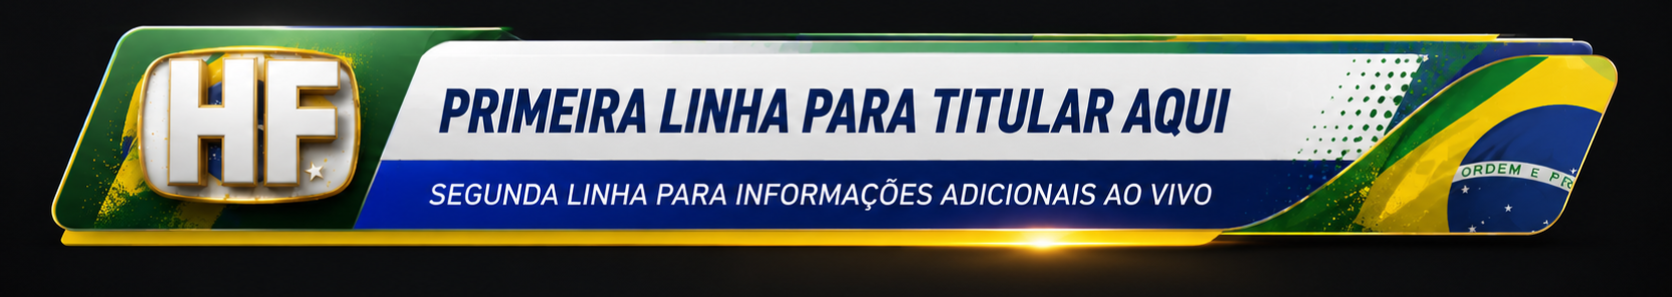
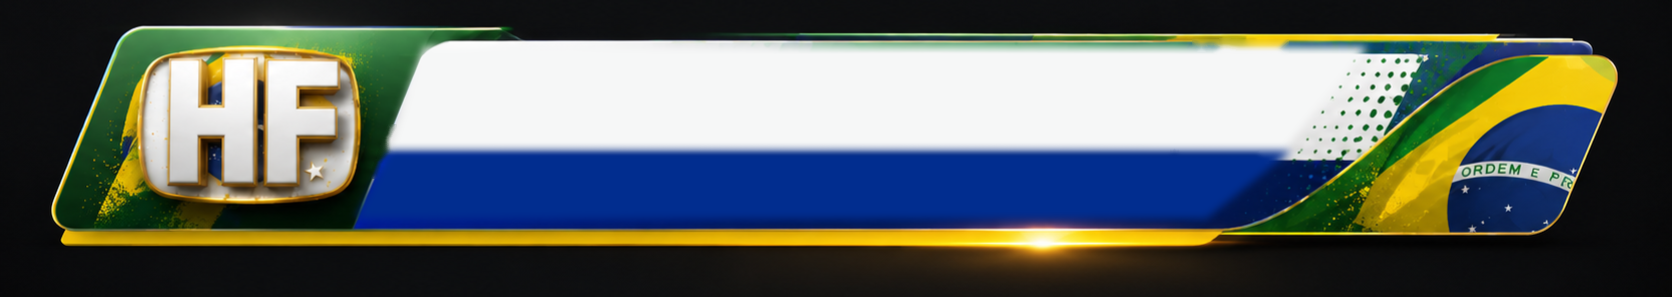
Limpa arte da headline patriota

Changed region(s): [[0.2177, 0.2727, 0.7775, 0.7576], [0.4354, 0.1212, 0.8397, 0.2121], [0.2488, 0.1515, 0.2799, 0.1818]]

diff --git a/src/components/Pages/ForgeEditor.css b/src/components/Pages/ForgeEditor.css
@@ -1124,25 +1124,22 @@
 
 .headline-patriota-main {
   position: absolute;
-  left: 19.2%;
-  right: 11.2%;
-  top: 7.5%;
-  bottom: 12%;
+  left: 24%;
+  right: 19%;
+  top: 16%;
+  height: 32%;
   z-index: 2;
   display: flex;
   align-items: center;
   justify-content: center;
   text-align: center;
   overflow: hidden;
-  background: linear-gradient(90deg, rgba(253, 253, 253, 0.98), rgba(244, 246, 252, 0.96));
-  border-radius: 28px;
-  padding: 0 34px;
-  box-shadow:
-    inset 0 1px 0 rgba(255, 255, 255, 0.8),
-    0 8px 20px rgba(0, 0, 0, 0.16);
-  border-top: 2px solid rgba(255, 220, 94, 0.54);
-  border-bottom: 2px solid rgba(255, 207, 52, 0.42);
-  transform: skewX(-10deg);
+  background: transparent;
+  border: 0;
+  border-radius: 0;
+  box-shadow: none;
+  padding: 0 16px;
+  transform: none;
 }
 
 .headline-patriota-main strong {
@@ -1156,7 +1153,7 @@
   text-align: center;
   display: block;
   -webkit-line-clamp: 2;
-  transform: skewX(10deg);
+  transform: none;
 }
 
 .style-breaking-flash {
@@ -1293,11 +1290,11 @@
 }
 
 .headline-style-content.compact .headline-patriota-main {
-  left: 20.2%;
-  right: 12.2%;
-  top: 9%;
-  bottom: 14%;
-  padding: 0 22px;
+  left: 24%;
+  right: 19%;
+  top: 16%;
+  height: 32%;
+  padding: 0 10px;
 }
 
 .avatar-engine-panel {
